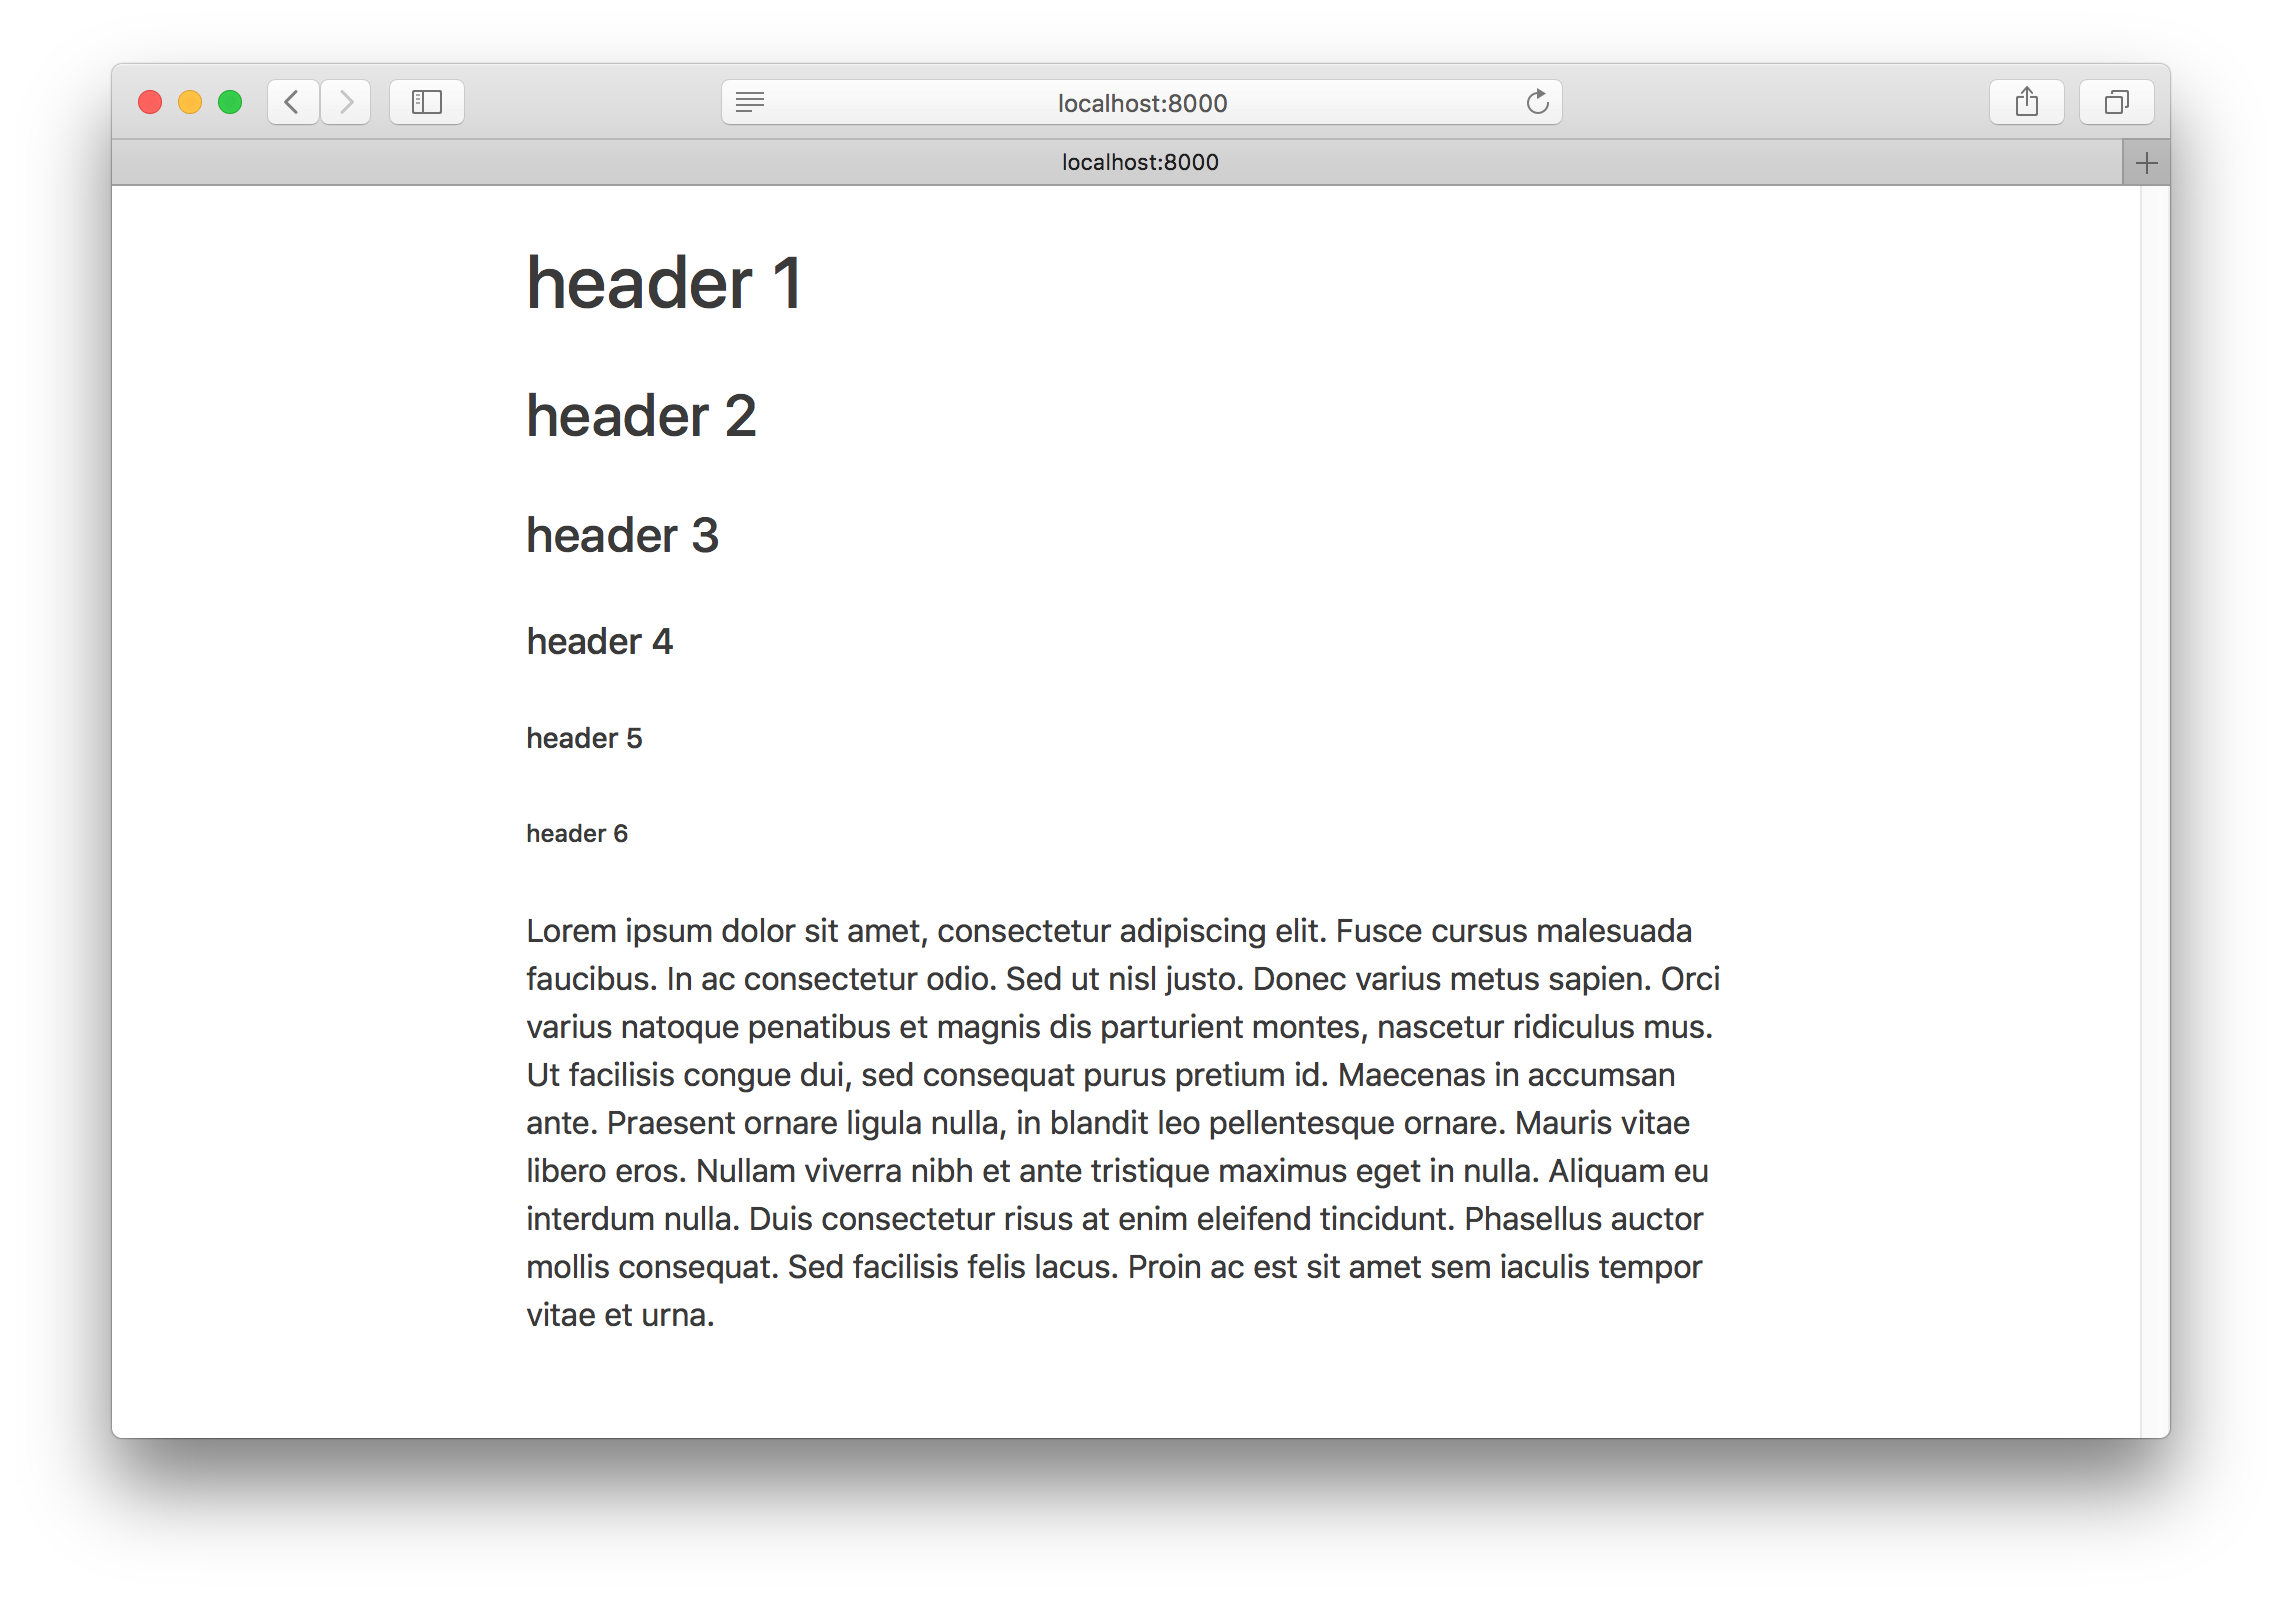
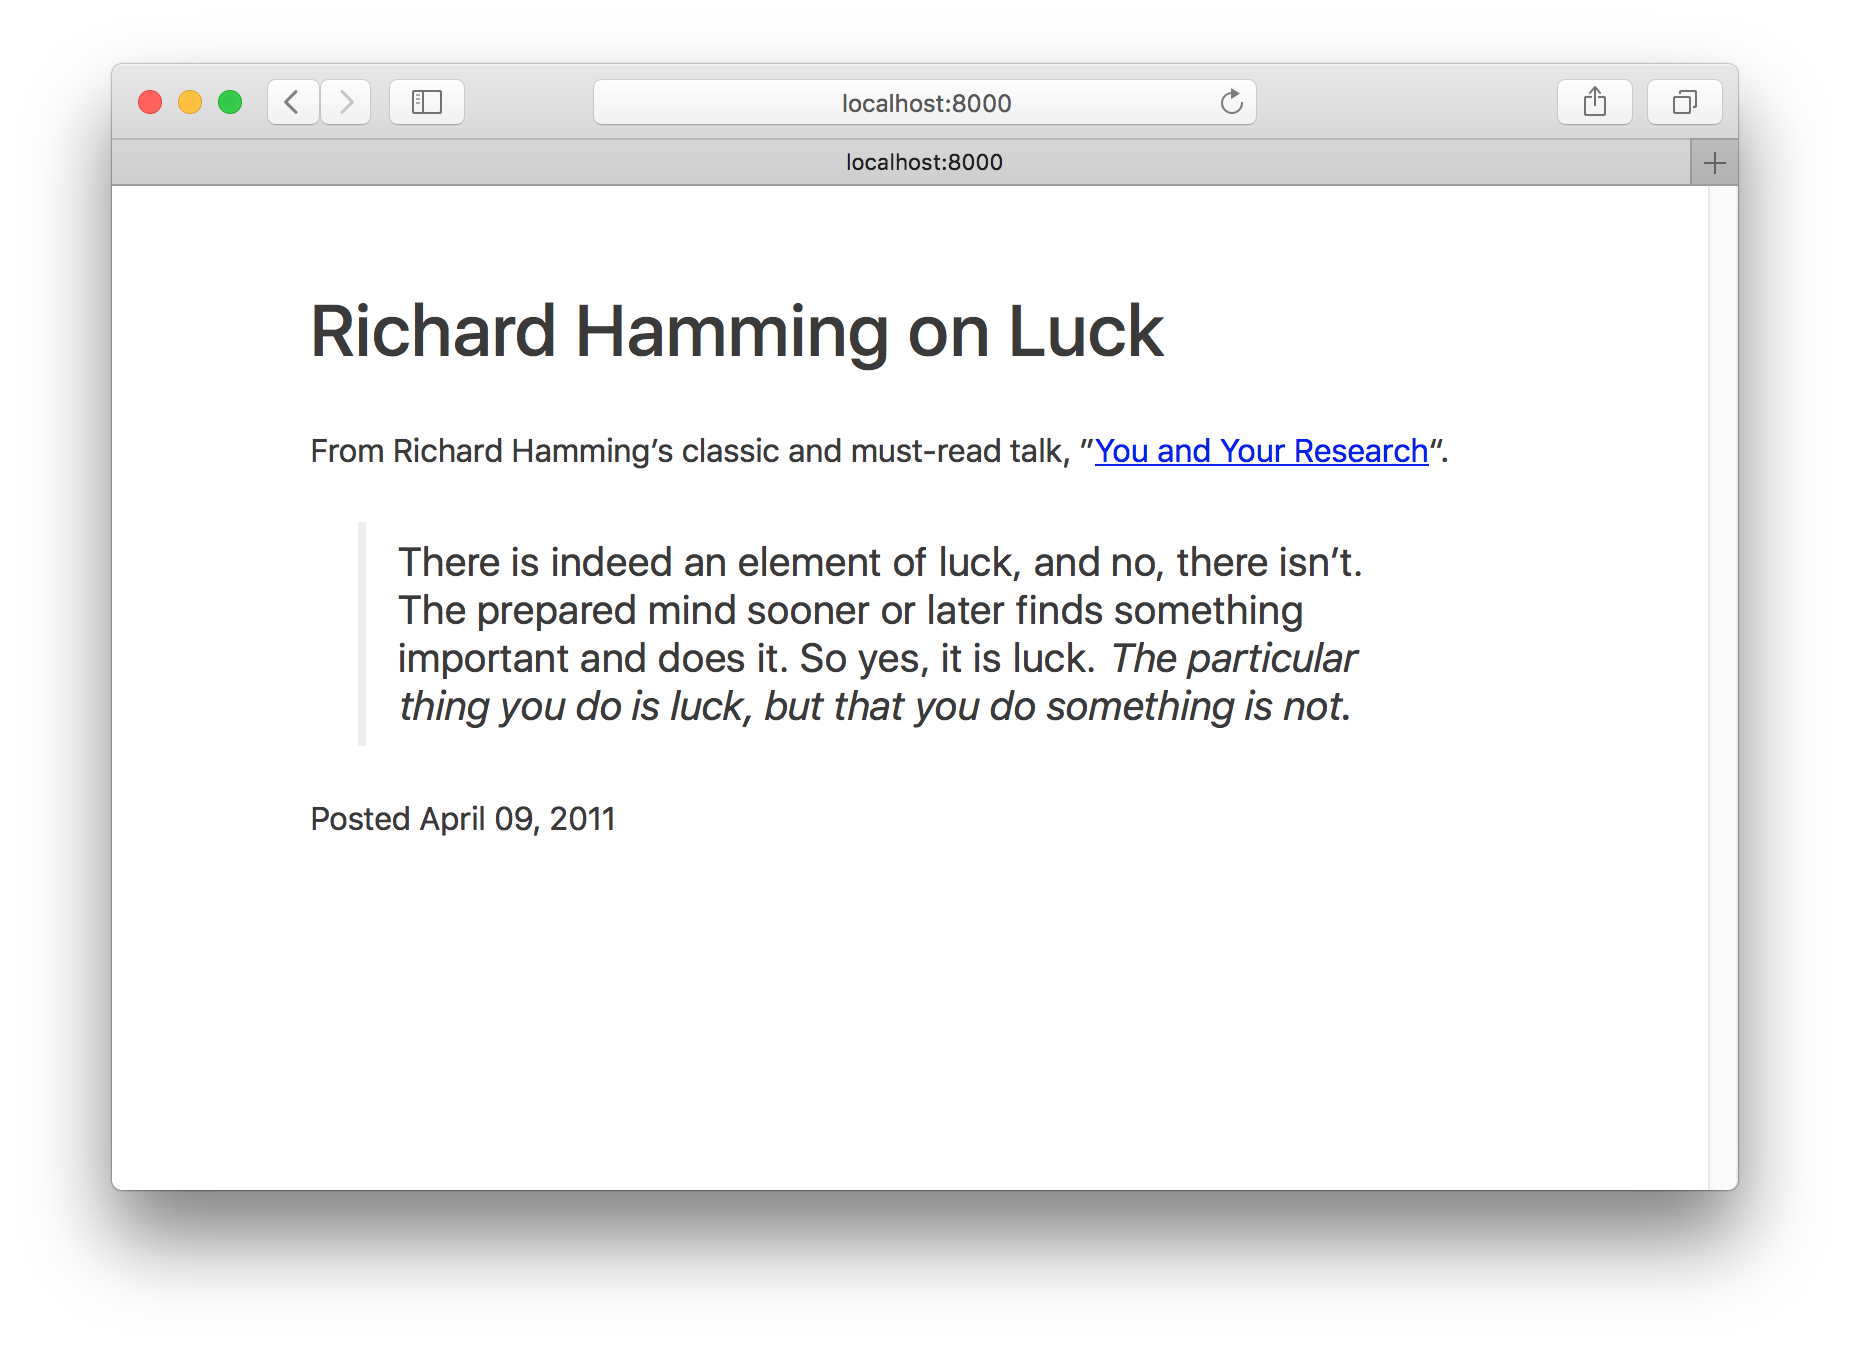
Updates to Tutorial 2 (#1683)

Changed region(s): [[0.0308, 0.0311, 0.9551, 0.9333], [0.1541, 0.3733, 0.7703, 0.84], [0.1541, 0.3111, 0.7703, 0.3422]]

diff --git a/docs/tutorial/part-two/index.md b/docs/tutorial/part-two/index.md
@@ -127,30 +127,32 @@ import React from "react"
 
 export default () =>
   <div>
-    <h1>header 1</h1>
-    <h2>header 2</h2>
-    <h3>header 3</h3>
-    <h4>header 4</h4>
-    <h5>header 5</h5>
-    <h6>header 6</h6>
-    <p>
-      Lorem ipsum dolor sit amet, consectetur adipiscing elit. Fusce cursus
-      malesuada faucibus. In ac consectetur odio. Sed ut nisl justo. Donec
-      varius metus sapien. Orci varius natoque penatibus et magnis dis
-      parturient montes, nascetur ridiculus mus. Ut facilisis congue dui, sed
-      consequat purus pretium id. Maecenas in accumsan ante. Praesent ornare
-      ligula nulla, in blandit leo pellentesque ornare. Mauris vitae libero
-      eros. Nullam viverra nibh et ante tristique maximus eget in nulla. Aliquam
-      eu interdum nulla. Duis consectetur risus at enim eleifend tincidunt.
-      Phasellus auctor mollis consequat. Sed facilisis felis lacus. Proin ac est
-      sit amet sem iaculis tempor vitae et urna.
-    </p>
+    <h1>Richard Hamming on Luck</h1>
+    <div>
+      <p>
+        From Richard Hamming’s classic and must-read talk, ”<a href="http://www.cs.virginia.edu/~robins/YouAndYourResearch.html">
+          You and Your Research
+        </a>“.
+      </p>
+      <blockquote>
+        <p>
+          There is indeed an element of luck, and no, there isn’t. The prepared
+          mind sooner or later finds something important and does it. So yes, it
+          is luck.{" "}
+          <em>
+            The particular thing you do is luck, but that you do something is
+            not.
+          </em>
+        </p>
+      </blockquote>
+    </div>
+    <p>Posted April 09, 2011</p>
   </div>
 ```
 
 Your site should now look like this:
 
-![basic-typograpy](basic-typograpy.png)
+![typography-not-centered](typography-not-centered.png)
 
 Let's make a quick improvement. Many sites have a single column of text centered in the middle of the page. To create this, add the following styles to the `<div>` in `src/pages/index.js`.
 
@@ -158,29 +160,31 @@ Let's make a quick improvement. Many sites have a single column of text centered
 import React from "react"
 
 export default () =>
-  <div style={{ margin: '1.5rem auto', maxWidth: 600 }}>
-    <h1>header 1</h1>
-    <h2>header 2</h2>
-    <h3>header 3</h3>
-    <h4>header 4</h4>
-    <h5>header 5</h5>
-    <h6>header 6</h6>
-    <p>
-      Lorem ipsum dolor sit amet, consectetur adipiscing elit. Fusce cursus
-      malesuada faucibus. In ac consectetur odio. Sed ut nisl justo. Donec
-      varius metus sapien. Orci varius natoque penatibus et magnis dis
-      parturient montes, nascetur ridiculus mus. Ut facilisis congue dui, sed
-      consequat purus pretium id. Maecenas in accumsan ante. Praesent ornare
-      ligula nulla, in blandit leo pellentesque ornare. Mauris vitae libero
-      eros. Nullam viverra nibh et ante tristique maximus eget in nulla. Aliquam
-      eu interdum nulla. Duis consectetur risus at enim eleifend tincidunt.
-      Phasellus auctor mollis consequat. Sed facilisis felis lacus. Proin ac est
-      sit amet sem iaculis tempor vitae et urna.
-    </p>
+  <div style={{ margin: '3rem auto', maxWidth: 600 }}>
+    <h1>Richard Hamming on Luck</h1>
+    <div>
+      <p>
+        From Richard Hamming’s classic and must-read talk, ”<a href="http://www.cs.virginia.edu/~robins/YouAndYourResearch.html">
+          You and Your Research
+        </a>“.
+      </p>
+      <blockquote>
+        <p>
+          There is indeed an element of luck, and no, there isn’t. The prepared
+          mind sooner or later finds something important and does it. So yes, it
+          is luck.{" "}
+          <em>
+            The particular thing you do is luck, but that you do something is
+            not.
+          </em>
+        </p>
+      </blockquote>
+    </div>
+    <p>Posted April 09, 2011</p>
   </div>
 ```
 
-![basic-typography-centered](basic-typography-centered.png)
+![basic-typography-centered](typography-centered.png)
 
 Ah, this is starting to look nice!
 
@@ -221,7 +225,7 @@ There are many themes available for Typography.js. Let's try a couple. Run in yo
 npm install --save typography-theme-bootstrap typography-theme-lawton
 ```
 
-To use the Bootstrap theme, change your typography module code to:
+To use the Bootstrap theme, change your typography code to:
 
 ```javascript{2,4}
 import Typography from "typography"
@@ -252,7 +256,7 @@ Typography.js has more than 30 themes! Check them out at http://kyleamathews.git
 
 ## Component CSS
 
-Gatsby has a wealth of options available for styling components. Let's explore three very popular and production-ready options.
+Gatsby has a wealth of options available for styling components. Let's explore three very popular and production-ready options. We'll build a simple page three times with each styling option.
 
 Each is a variant on "CSS-in-JS" — which solves many of the problems with traditional CSS.
 
@@ -263,6 +267,8 @@ With CSS-in-JS you avoid all that as CSS selectors are scoped automatically to t
 For some background reading on CSS-in-JS, see [Christopher "vjeux" Chedeau's 2014 presentation that sparked this movement](https://speakerdeck.com/vjeux/react-css-in-js) as well as [Mark Dalgleish's more recent post "A Unified Styling Language"](https://medium.com/seek-blog/a-unified-styling-language-d0c208de2660).
 
 ### CSS Modules
+
+Let's explore first **CSS Modules**.
 
 Quoting from [the CSS Module homepage](https://github.com/css-modules/css-modules):
 
